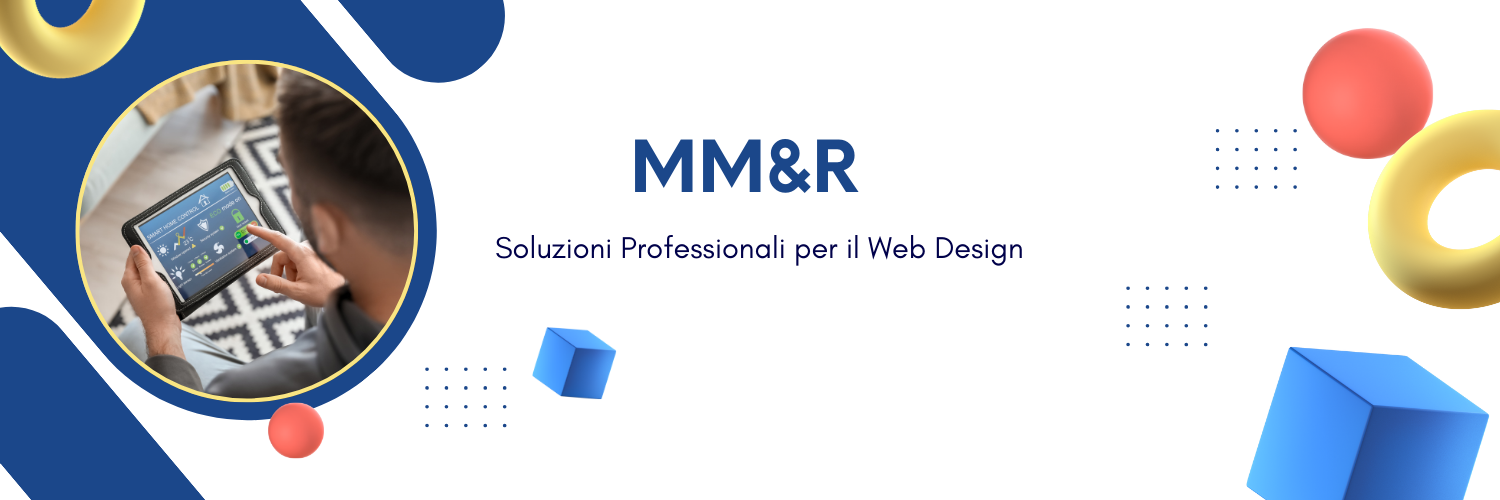
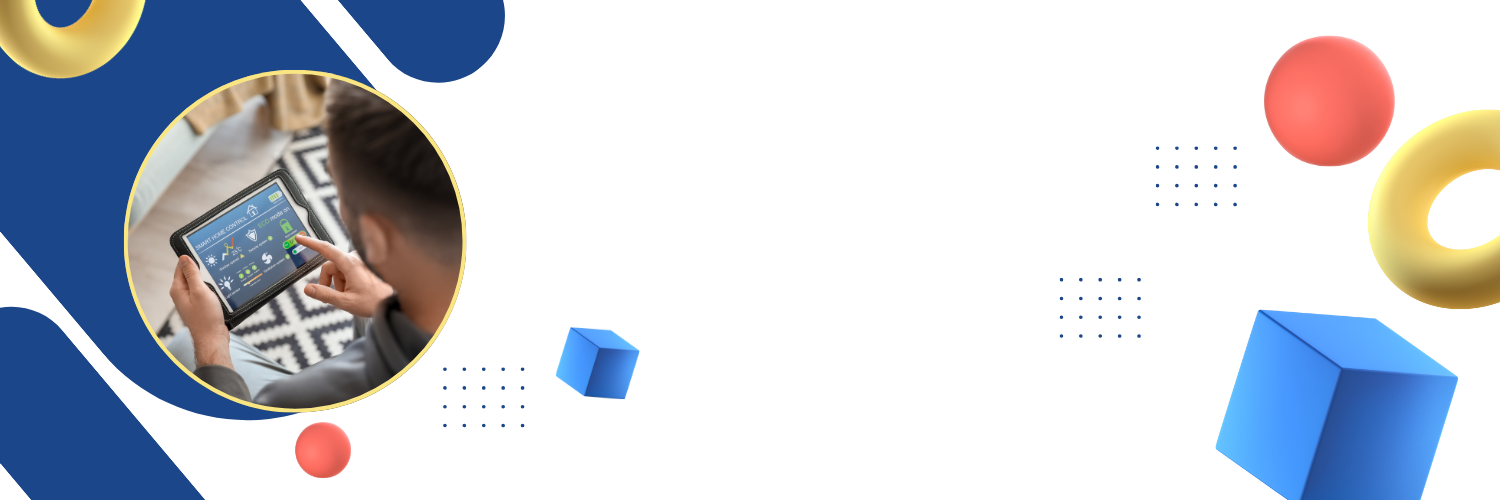
Sito 2025

diff --git a/index.html b/index.html
@@ -87,8 +87,8 @@
     <div class="container" style="padding-bottom: 18em;">
       <div class="row justify-content-md-center">
         <div class="col-12 col-md-11 col-lg-9 col-xl-7 col-xxl-6 text-center" style="position: relative; top: 6em;">
-          <h1 class="display-3 fw-bold mb-3" style="color: #F8F9FA;"></h1>
-          <p class="lead mb-5" style="color: #F8F9FA;"></p>
+          <h1 class="display-3 fw-bold mb-3" style="color: #F8F9FA;">MM&R</h1>
+          <p class="lead mb-5" style="color: #F8F9FA;">Soluzioni Professionali per il Web Design</p>
         </div>
       </div>
     </div>
